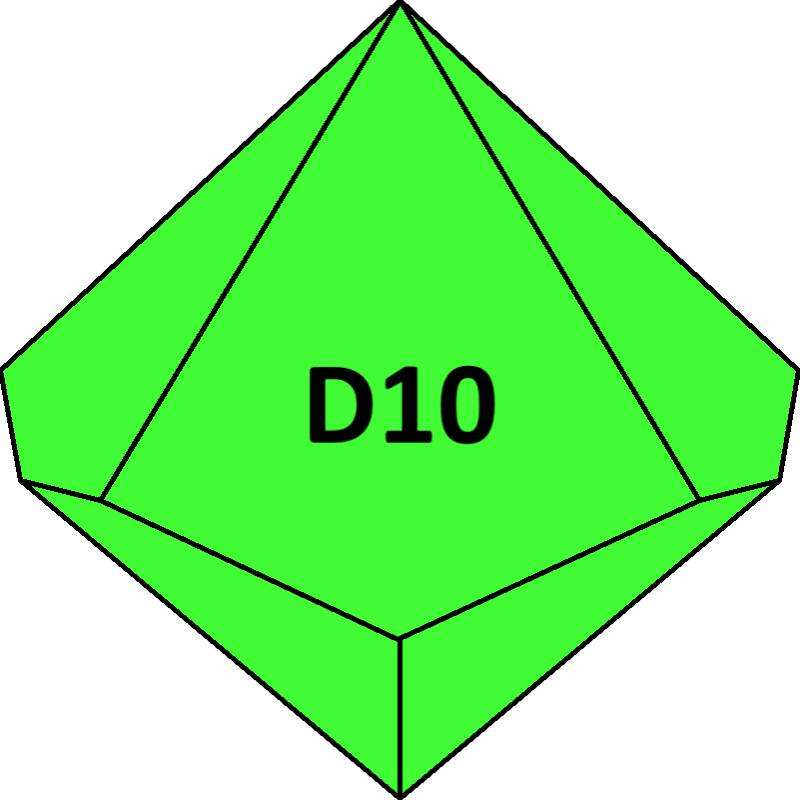
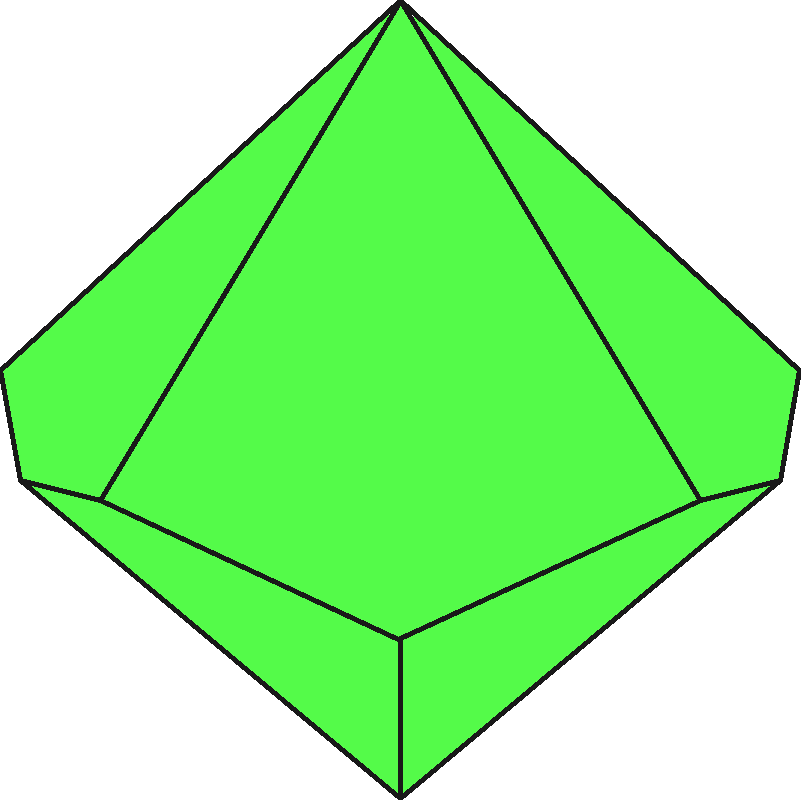
replaced d10 image and amended positioning

diff --git a/D&D_dice_roller.html b/D&D_dice_roller.html
@@ -30,10 +30,11 @@
           <p class="roll-scorenew" id="score12"></p>
         </div>
         <div class="dice-section">
+          <!-- <img src="assets/images/d10.png" alt="A bright green D10 di"> -->
+          <h3 class="headingnew">D10</h3>
+          <input value="Click to roll" onclick="d10Roller()" type="button" id="10roller" class="roll-buttonnew">
           <img src="assets/images/d10.png" alt="A bright green D10 di">
-          <h3>D10</h3>
-          <input value="Click to roll" onclick="d10Roller()" type="button" id="10roller" class="roll-button">
-          <p class="roll-score" id="score10">Score:</p>
+          <p class="roll-scorenew" id="score10"></p>
         </div>
         <div class="dice-section">
           <img src="assets/images/d8.png" alt="A bright green D8 di">

diff --git a/D&D_dice_roller.js b/D&D_dice_roller.js
@@ -26,7 +26,8 @@
 
         function d10Roller() {
           let result10 = (Math.floor(Math.random() * 10) + 1);
-          document.getElementById('score10').innerHTML = "Score: " + result10;
+          // document.getElementById('score10').innerHTML = "Score: " + result10;
+          document.getElementById('score10').innerHTML = result10;
         }
 
         function d8Roller() {

diff --git a/assets/stylesheets/style.css b/assets/stylesheets/style.css
@@ -46,6 +46,7 @@ img {
     margin: 34px 10%;
     background-color: #2F3336;
     padding: 1px 0%;
+    padding-bottom: 43px;
 }
 
 .roll-button {
@@ -111,6 +112,11 @@ img {
 }
 
 #score12 {
+    top: -27px;
+    left: 1%;
+}
+
+#score10 {
     top: -27px;
     left: 1%;
 }
